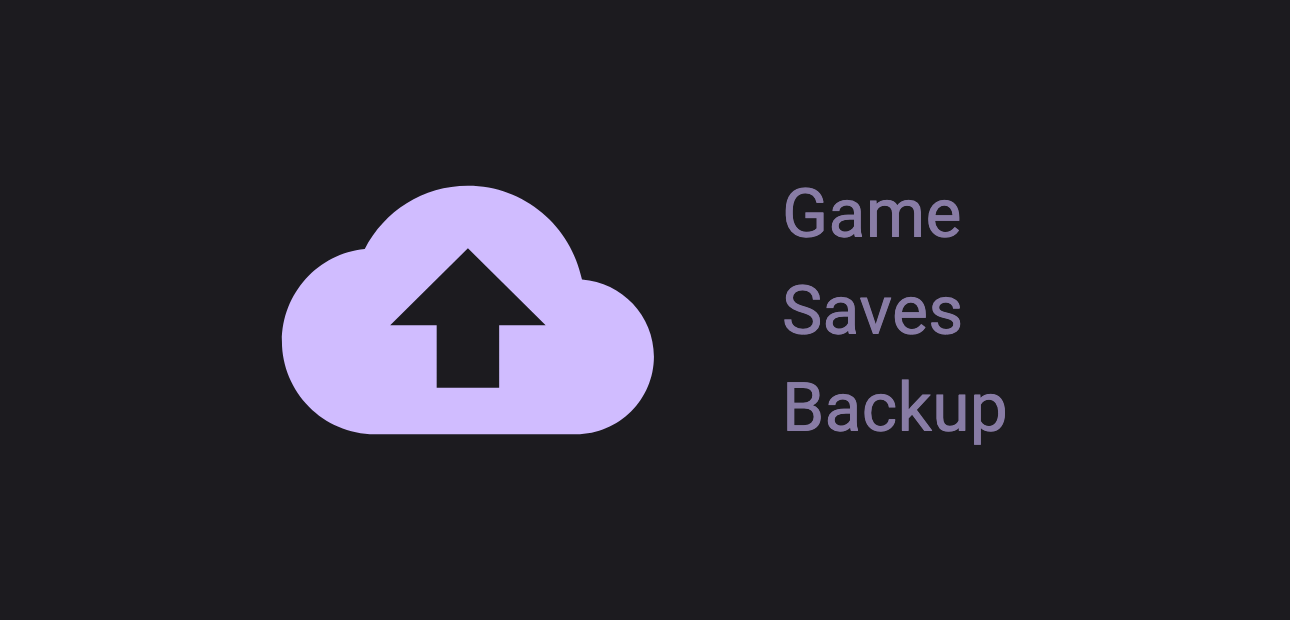
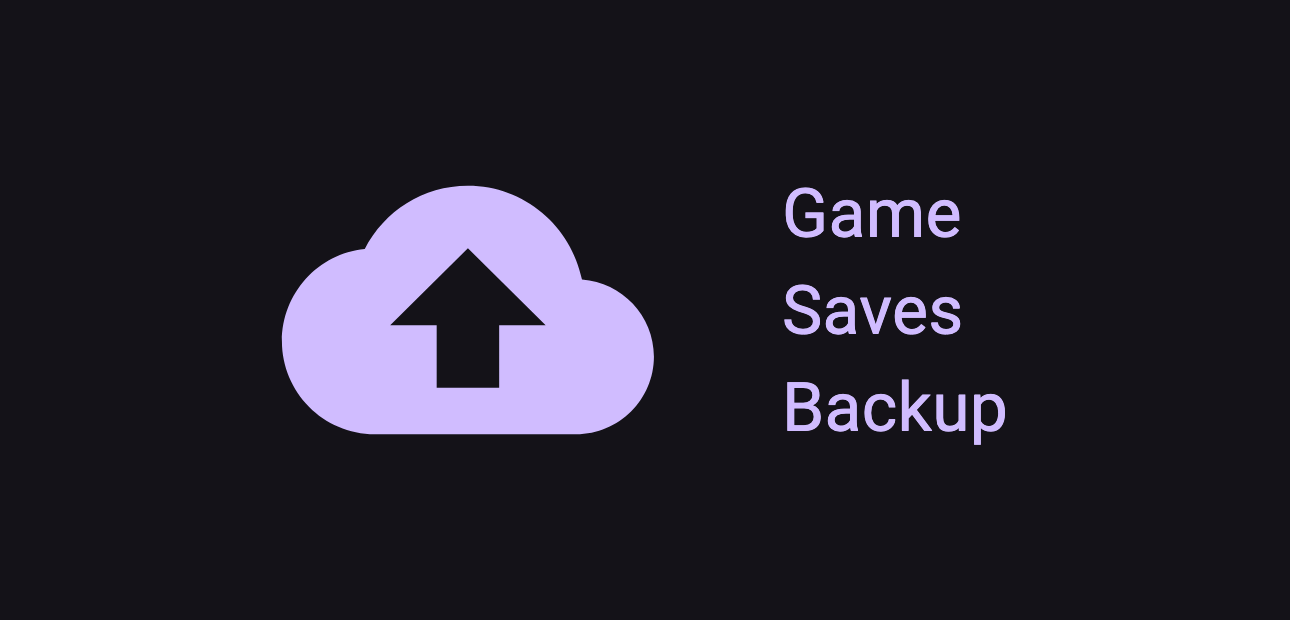
Update background

Changed region(s): [[0.5891, 0.6129, 0.8062, 0.7048], [0.5891, 0.4597, 0.7442, 0.5516], [0.5891, 0.3065, 0.7442, 0.3984]]

diff --git a/test/steam_assets/generate_steam_assets_test.dart b/test/steam_assets/generate_steam_assets_test.dart
@@ -65,7 +65,7 @@ class SteamAsset extends StatelessWidget {
                 'Game\nSaves\nBackup',
                 style: TextStyle(
                   fontSize: size.shortestSide * 0.6 * 0.1825,
-                  color: context.colorScheme.primary.withOpacity(0.6),
+                  color: context.colorScheme.primary,
                 ),
               ),
             ],
